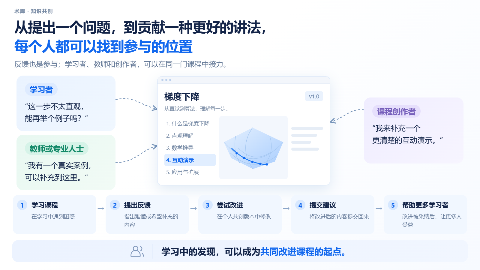
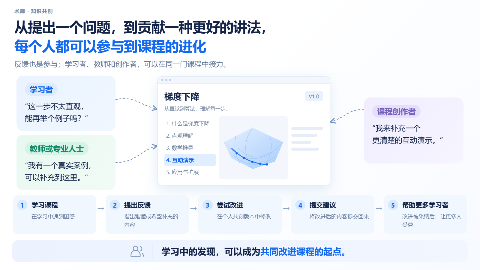
copy(creator-guide): refine participation headline

Changed region(s): [[0.1875, 0.1481, 0.4375, 0.2074]]

diff --git a/modules/Creator-Guide/pages/ShukuIntroPages.tsx b/modules/Creator-Guide/pages/ShukuIntroPages.tsx
@@ -32,7 +32,7 @@ export function ShukuWhyPage(){
 }
 export function ShukuParticipationPage(){
   const steps=[['学习课程','在学习中遇到困惑'],['提出反馈','指出难懂或希望补充的内容'],['尝试改进','在个人共创版本中修改'],['提交建议','将改进后的内容提交回来'],['帮助更多学习者','改进被采纳后，让更多人受益']];
-  return <article className="cg-shuku-page cg-shuku-participation cg-creator-typography" aria-labelledby="cg-shuku-participation-title"><Heading id="cg-shuku-participation-title" title="从提出一个问题，到贡献一种更好的讲法，" accent="每个人都可以找到参与的位置" subtitle="反馈也是参与；学习者、教师和创作者，可以在同一门课程中接力。"/><Connections/><section className="cg-shuku-person cg-shuku-learner tone-blue"><Typography as="h2" variant="h2" tone="inherit">学习者</Typography><Copy>“这一步不太直观，<br/>能再举个例子吗？”</Copy></section><section className="cg-shuku-person cg-shuku-teacher tone-teal"><Typography as="h2" variant="h2" tone="inherit">教师或专业人士</Typography><Copy>“我有一个真实案例，<br/>可以补充到这里。”</Copy></section><div className="cg-shuku-participation-course"><CourseCard/></div><section className="cg-shuku-person cg-shuku-creator tone-violet"><Typography as="h2" variant="h2" tone="inherit">课程创作者</Typography><Copy>“我来补充一个<br/>更清楚的互动演示。”</Copy></section><ol className="cg-shuku-participation-path">{steps.map(([title,description],i)=><li key={title}><span>{i+1}</span><div><Typography as="h3" variant="h3" tone="inherit">{title}</Typography><Copy>{description}</Copy></div>{i<steps.length-1&&<b aria-hidden="true">→</b>}</li>)}</ol><Conclusion icon>学习中的发现，可以成为<em>共同改进课程的起点。</em></Conclusion></article>;
+  return <article className="cg-shuku-page cg-shuku-participation cg-creator-typography" aria-labelledby="cg-shuku-participation-title"><Heading id="cg-shuku-participation-title" title="从提出一个问题，到贡献一种更好的讲法，" accent="每个人都可以参与到课程的进化" subtitle="反馈也是参与；学习者、教师和创作者，可以在同一门课程中接力。"/><Connections/><section className="cg-shuku-person cg-shuku-learner tone-blue"><Typography as="h2" variant="h2" tone="inherit">学习者</Typography><Copy>“这一步不太直观，<br/>能再举个例子吗？”</Copy></section><section className="cg-shuku-person cg-shuku-teacher tone-teal"><Typography as="h2" variant="h2" tone="inherit">教师或专业人士</Typography><Copy>“我有一个真实案例，<br/>可以补充到这里。”</Copy></section><div className="cg-shuku-participation-course"><CourseCard/></div><section className="cg-shuku-person cg-shuku-creator tone-violet"><Typography as="h2" variant="h2" tone="inherit">课程创作者</Typography><Copy>“我来补充一个<br/>更清楚的互动演示。”</Copy></section><ol className="cg-shuku-participation-path">{steps.map(([title,description],i)=><li key={title}><span>{i+1}</span><div><Typography as="h3" variant="h3" tone="inherit">{title}</Typography><Copy>{description}</Copy></div>{i<steps.length-1&&<b aria-hidden="true">→</b>}</li>)}</ol><Conclusion icon>学习中的发现，可以成为<em>共同改进课程的起点。</em></Conclusion></article>;
 }
 export function ShukuReviewPage(){
   return <article className="cg-shuku-page cg-shuku-review cg-creator-typography" aria-labelledby="cg-shuku-review-title"><Heading id="cg-shuku-review-title" title="改进经过审核，" accent="才能成为课程的下一版" subtitle="先在个人版本中尝试；经过审核、合并和正式发布，改进才进入正式课程。"/><div className="cg-shuku-review-panels"><section className="cg-shuku-review-panel tone-blue"><Typography as="h2" variant="h2" tone="inherit">1. 个人共创版本</Typography><span className="cg-shuku-draft">草稿</span><CourseCard compact note="＋ 新增互动演示"/><Copy className="cg-shuku-panel-caption">先在个人版本中尝试，<br/>不影响正在使用的正式课程。</Copy></section><span className="cg-shuku-stage-arrow" aria-hidden="true">→</span><section className="cg-shuku-review-panel cg-shuku-discussion tone-amber"><Typography as="h2" variant="h2" tone="inherit">2. 审核与讨论</Typography><div className="cg-shuku-review-comment"><span>审核者意见</span><Copy>缺少适用条件，<br/>需要补充说明。</Copy></div><div className="cg-shuku-return" aria-hidden="true"><svg viewBox="0 0 160 170"><path d="M35 12H21Q9 12 9 25v123q0 12 12 12h118m-10-10 10 10-10 10" fill="none" stroke="currentColor" strokeWidth="3" strokeLinecap="round" strokeLinejoin="round"/></svg><Copy>退回修改</Copy></div><div className="cg-shuku-author-comment"><span>共创者</span><Copy>补充说明后，<br/>重新提交审核。</Copy></div></section><span className="cg-shuku-stage-arrow" aria-hidden="true">→</span><section className="cg-shuku-review-panel cg-shuku-publication tone-violet"><Typography as="h2" variant="h2" tone="inherit">3. 合并并正式发布</Typography><div className="cg-shuku-version-comparison"><CourseCard mini/><span aria-hidden="true">→</span><CourseCard mini version="v1.1" updated/></div><Copy className="cg-shuku-panel-caption">审核通过后，仍需合并并发布。<br/>学习者可继续旧版，或主动切换新版。</Copy></section></div><div className="cg-shuku-principles">{[['独立修改','在个人版本中尝试，不影响正式课程。','teal'],['针对改动审核','内容变化后，需要重新核对。','blue'],['明确版本发布','合并后正式发布，才进入课程。','amber']].map(([title,description,tone])=><section key={title} className={'tone-'+tone}><Typography as="h2" variant="h2" tone="inherit">{title}</Typography><Copy>{description}</Copy></section>)}</div><Conclusion>让改进<em>有讨论</em>，让发布<em>有依据</em>，让历史<em>可追溯。</em></Conclusion></article>;
